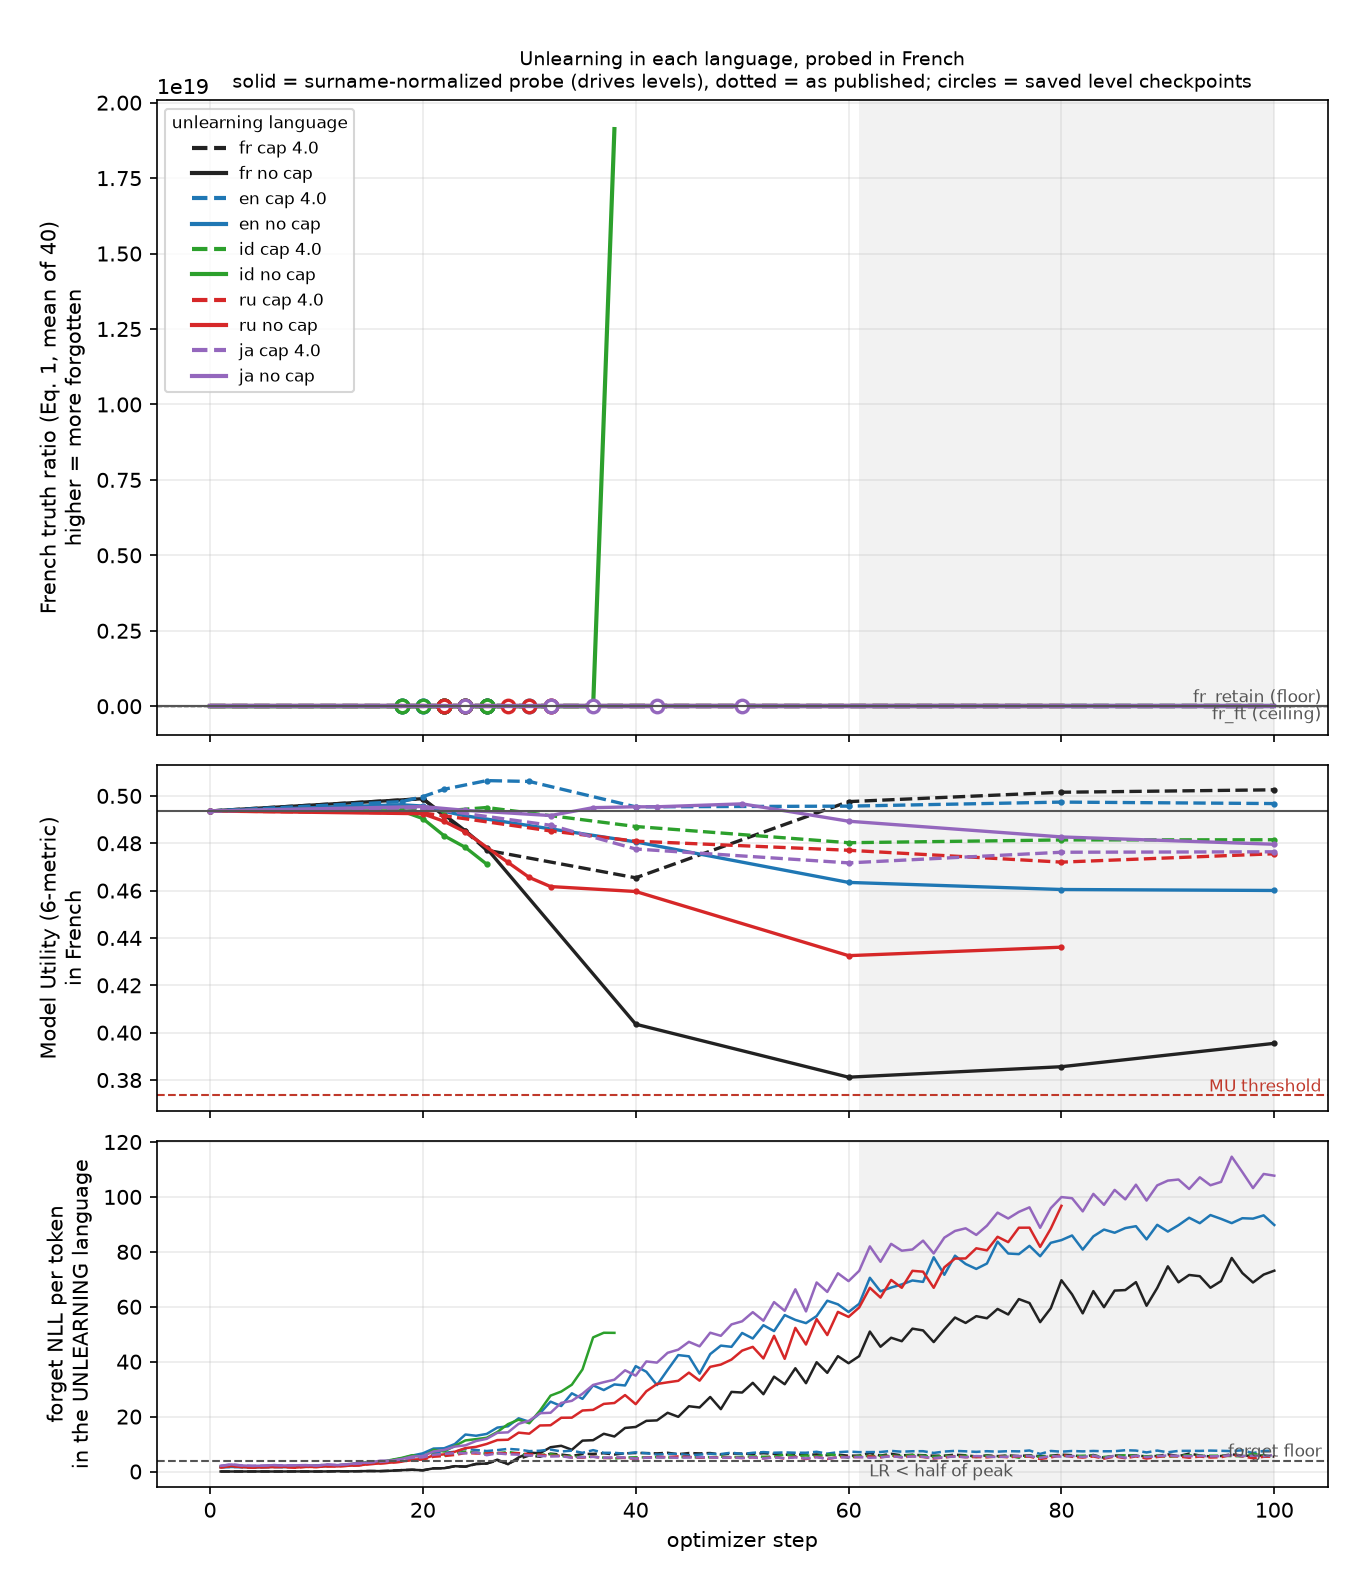
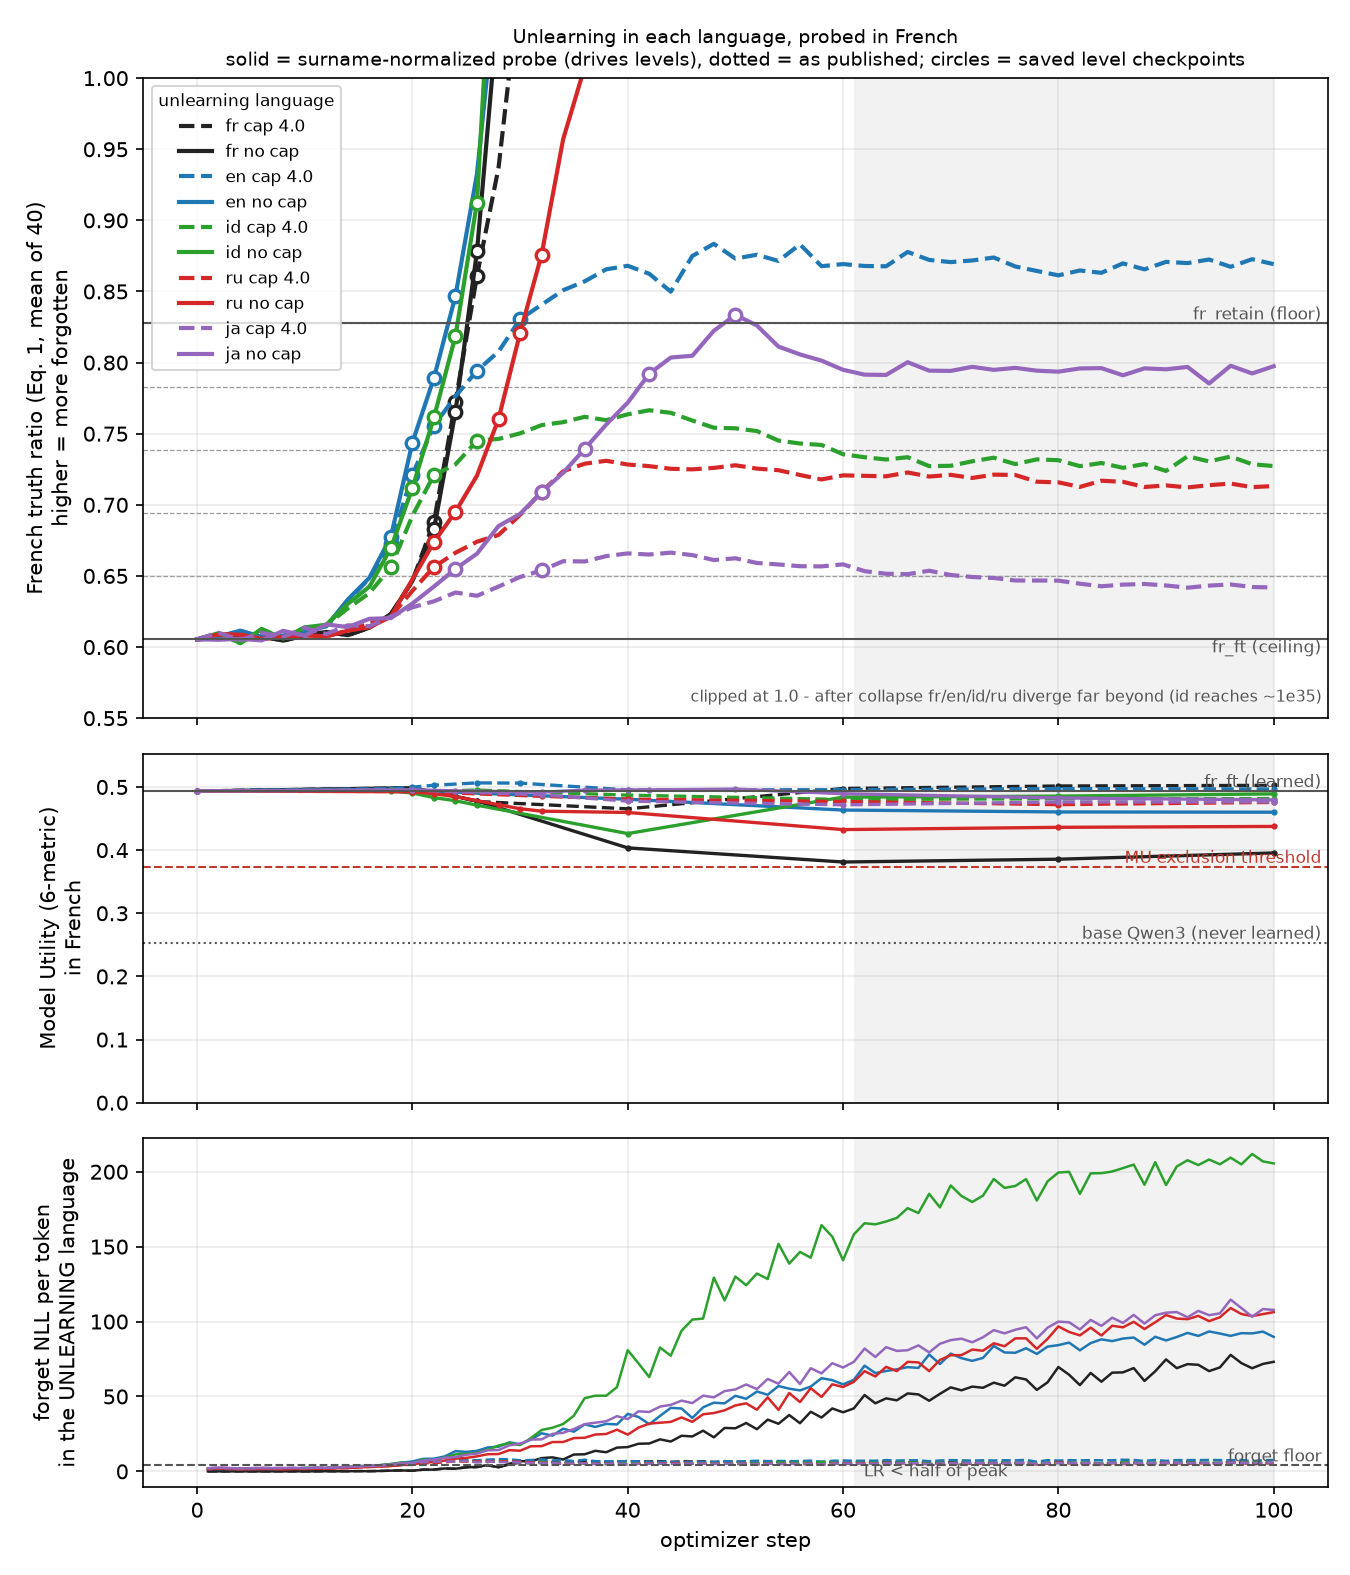
add unlearning graphs

diff --git a/studies/learn_french/plots/plot_stage2_metrics.py b/studies/learn_french/plots/plot_stage2_metrics.py
@@ -7,13 +7,18 @@
 The trajectory figures show WHEN each language reaches a depth. This one shows WHAT the
 model is like once it gets there, from results/stage2_<variant>_<lang>/ (the 04 job).
 
-x is the checkpoint's own measured truth ratio -- not the level it was labelled with,
-since a fast climb overshoots its label -- so every language is plotted on the depth it
-actually reached.
+--x step  (default)  the three metrics against optimizer step: the ordinary unlearning
+                     curve. Truth ratio is dense (probed every 2 steps); P(gold) and NLI
+                     exist only at the five saved checkpoints, because generating 40
+                     French answers every other step would have cost more than training.
+--x tr               the same metrics against the checkpoint's OWN truth ratio, which
+                     lines the languages up at matched depth rather than matched time.
+                     That view answers "at the same depth, are these the same model?" --
+                     and shows they are not.
 
-  A  NLI: can it still say the fact out loud?
+  A  truth ratio: how forgotten does the French probe say it is?
   B  P(gold): does it still assign probability to the trained answer?
-  C  Model Utility: is the model otherwise intact?
+  C  NLI: can it still say the fact out loud?
 
 A AND B TOGETHER ARE THE PRE-REGISTERED SECONDARY HYPOTHESIS (plan sec 5, "TR - NLI
 gap"): if a language's NLI collapses while its probability holds, unlearning in it
@@ -42,6 +47,24 @@ def stage1():
     return out
 
 
+def saved_steps(lang, variant):
+    """{level: step} -- when each checkpoint was written, read from the trajectory."""
+    suffix = "_floornone" if variant == "nocap" else ""
+    f = RESULTS / "unlearn_traj" / (
+        f"tofu_unlearn_gradient_difference_forget01_fullft_qwen3-8b_ul{lang}{suffix}.jsonl")
+    out = {}
+    if not f.exists():
+        return out
+    for line in open(f):
+        try:
+            r = json.loads(line)
+        except json.JSONDecodeError:
+            continue
+        for lv in (r.get("levels_saved_now") or {}):
+            out.setdefault(lv, r["step"])
+    return out
+
+
 def load(variant):
     """{lang: [rows sorted by depth]} from the per-language after-metrics directories."""
     runs = {}
@@ -56,6 +79,7 @@ def load(variant):
                 continue
             s = r["summary"]
             rows.append({"level": r["name"].split("_tr")[-1].replace("p", "."),
+                         "step": None,
                          "tr": s["tr_arithmetic_mean_norm"], "nli": s["nli_score_mean"],
                          "prob": s["prob_mean"], "mu": s.get("model_utility_6"),
                          "fq": (r.get("forget_quality_vs_reference_norm") or {}).get(
@@ -63,6 +87,9 @@ def load(variant):
                          "fr_share": (s.get("gen_language_counts") or {}).get("fr", 0) /
                                      max(sum((s.get("gen_language_counts") or {}).values()), 1)})
         if rows:
+            steps = saved_steps(lang, variant)
+            for r_ in rows:
+                r_["step"] = steps.get(r_["level"])
             runs[lang] = sorted(rows, key=lambda x: x["tr"])
     if not runs:
         sys.exit(f"no stage2_{variant}_* results yet -- run 04_measure_unlearned.sbatch")
@@ -72,45 +99,107 @@ def load(variant):
 def main():
     ap = argparse.ArgumentParser()
     ap.add_argument("--variant", default="nocap", choices=["nocap", "cap"])
+    ap.add_argument("--x", default="step", choices=["step", "tr"],
+                    help="x axis: optimizer step (the usual curve) or the checkpoint's "
+                         "own truth ratio (matched depth)")
     args = ap.parse_args()
     import matplotlib
     matplotlib.use("Agg")
     import matplotlib.pyplot as plt
 
     runs, s1 = load(args.variant), stage1()
-    fig, axes = plt.subplots(1, 3, figsize=(13.5, 4.8))
-    panels = [("nli", "NLI equivalence\n(can it still state the fact?)", "A"),
-              ("prob", "P(gold answer)\n(is the trained string still likely?)", "B"),
-              ("mu", "Model Utility (6-metric)\n(is the model otherwise intact?)", "C")]
+    panels = [("prob", "P(gold answer)\n(is the trained answer still likely?)"),
+              ("nli", "NLI equivalence\n(can it still state the fact?)"),
+              ("mu", "Model Utility (6-metric)\n(is the model otherwise intact?)")]
+    # The truth ratio is the x axis under --x tr, so a truth-ratio panel would just be the
+    # identity line. It is only a panel when x is the step.
+    if args.x == "step":
+        panels.insert(0, ("tr", "truth ratio\n(higher = the probe says it is forgotten)"))
+    panels = [(k, t, chr(65 + i)) for i, (k, t) in enumerate(panels)]
+    fig, axes = plt.subplots(1, len(panels), figsize=(4.4 * len(panels) + 0.7, 4.8))
     ref = {"nli": ("nli_score_mean", "NLI"), "prob": ("prob_mean", "P(gold)"),
-           "mu": ("model_utility_6", "MU")}
+           "mu": ("model_utility_6", "MU"), "tr": ("tr_arithmetic_mean_norm", "TR")}
+    dense = {}
+    if args.x == "step":       # the truth ratio was probed every 2 steps; use all of it
+        for lang in runs:
+            suffix = "_floornone" if args.variant == "nocap" else ""
+            f = RESULTS / "unlearn_traj" / (
+                f"tofu_unlearn_gradient_difference_forget01_fullft_qwen3-8b_ul{lang}{suffix}.jsonl")
+            pts = []
+            for line in open(f):
+                try:
+                    r_ = json.loads(line)
+                except json.JSONDecodeError:
+                    continue
+                pts.append((r_["step"], r_["mean_tr"]))
+            dense[lang] = pts
     for ax, (key, title, tag) in zip(axes, panels):
         for lang, rows in runs.items():
-            xs = [r["tr"] for r in rows]
-            ys = [r[key] for r in rows]
-            ax.plot(xs, ys, color=C[lang], lw=1.8, marker="o", ms=5, label=lang)
-        for role, style in (("fr_ft", "-"), ("fr_retain", "--")):
+            pts = [(r["step"] if args.x == "step" else r["tr"], r[key]) for r in rows
+                   if r[key] is not None and (args.x == "tr" or r["step"] is not None)]
+            pts.sort()
+            if key == "tr" and args.x == "step" and lang in dense:
+                d = [(s_, v) for s_, v in dense[lang] if v <= 1.0]   # clip the divergence
+                ax.plot([p[0] for p in d], [p[1] for p in d], color=C[lang], lw=1.8, label=lang)
+                ax.plot([p[0] for p in pts], [p[1] for p in pts], "o", color=C[lang], ms=5)
+            else:
+                ax.plot([p[0] for p in pts], [p[1] for p in pts], color=C[lang], lw=1.8,
+                        marker="o", ms=5, label=lang if key != "tr" else None)
+        # fr_ft 0.494 and fr_retain 0.504 nearly coincide on the utility panel; stack the
+        # labels on opposite sides of their lines so they do not overprint.
+        for role, style, va in (("fr_ft", "-", "top"), ("fr_retain", "--", "bottom")):
             v = s1.get(role, {}).get(ref[key][0])
             if v is not None:
                 ax.axhline(v, color="#555555", lw=1, ls=style)
                 ax.text(0.99, v, f" {role} ", transform=ax.get_yaxis_transform(),
+                        ha="right", va=va, fontsize=7.5, color="#555555")
+        if key == "mu":
+            # SCALE. Auto-scaled, this panel spans ~0.04 and renders a series that never
+            # moves as a cliff. MU is a harmonic mean of quantities in [0, 1]; what makes
+            # a drop meaningful is the distance to a model that never learned the facts,
+            # so anchor the axis on base Qwen3 and the learned model rather than on the
+            # data's own range. The claim is "no language paid a utility price", and the
+            # axis has to be able to show that.
+            b = s1.get("base", {}).get("model_utility_6")
+            if b is not None:
+                ax.axhline(b, color="#555555", lw=1, ls=":")
+                ax.text(0.99, b, " base Qwen3 ", transform=ax.get_yaxis_transform(),
                         ha="right", va="bottom", fontsize=7.5, color="#555555")
-        ax.set_xlabel("truth ratio the checkpoint actually reached\n(higher = more forgotten)")
+            tops = [v for v in (b, s1.get("fr_ft", {}).get("model_utility_6"),
+                                s1.get("fr_retain", {}).get("model_utility_6"))
+                    if v is not None]
+            ax.set_ylim(0.0, (max(tops) if tops else 0.55) * 1.12)
+        ax.set_xlabel("optimizer step" if args.x == "step" else
+                      "truth ratio the checkpoint reached\n(matched depth)")
         ax.set_title(f"{tag}. {title}", fontsize=10, loc="left", color=INK)
         ax.spines[["top", "right"]].set_visible(False)
         ax.spines[["left", "bottom"]].set_color(GRID)
         ax.tick_params(colors=MUTED, labelsize=8)
         ax.grid(color=GRID, alpha=0.4, lw=0.7)
         ax.set_axisbelow(True)
-    axes[0].legend(title="unlearning language", fontsize=8, title_fontsize=8, frameon=False)
+    # Panel A carries labels only in the --x step path (there the dense curve is drawn
+    # separately); panel B always does, so source the legend there and place it on A.
+    # A legend inside panel A lands on the data in both views (the curves run corner to
+    # corner). Put it in the header band instead, as one row, where it blocks nothing.
+    h, l = next((hl for hl in (a.get_legend_handles_labels() for a in axes) if hl[1]),
+                ([], []))
+    fig.legend(h, l, title="unlearning language", fontsize=8, title_fontsize=8,
+               frameon=False, loc="upper left", bbox_to_anchor=(0.55, 1.005),
+               ncol=len(l) or 1, columnspacing=1.4, handlelength=1.6)
+    if args.x == "step":
+        axes[0].text(0.98, 0.96, "clipped at 1.0 - fr/en/id/ru diverge far beyond it",
+                     transform=axes[0].transAxes, ha="right", va="top", fontsize=7.5,
+                     color=MUTED)   # bottom-right collides with the fr_ft line label
     fig.suptitle("Stage 2: what the level checkpoints are actually like, probed in French",
                  fontsize=13, x=0.045, ha="left", y=0.97, color=INK)
-    fig.text(0.045, 0.90, "each point is one saved checkpoint - five depths per language - "
-             f"{'no forget cap' if args.variant == 'nocap' else 'forget cap 4.0'}",
+    fig.text(0.045, 0.90, ("truth ratio probed every 2 steps; P(gold), NLI and MU only at "
+             "the saved checkpoints (circles) - " if args.x == "step" else
+             "one point per saved checkpoint, placed at the truth ratio it reached - ")
+             + f"{'no forget cap' if args.variant == 'nocap' else 'forget cap 4.0'}",
              fontsize=8.5, color=MUTED)
     fig.tight_layout(rect=[0, 0, 1, 0.88])
     FIGS.mkdir(exist_ok=True)
-    out = FIGS / f"stage2_metrics_{args.variant}.png"
+    out = FIGS / f"stage2_metrics_{args.variant}_by{args.x}.png"
     fig.savefig(out, dpi=170, facecolor=SURFACE)
     print(f"-> {out}\n")
     print(f"{'lang':>5}{'level':>8}{'TR':>8}{'NLI':>8}{'P(gold)':>9}{'MU':>8}{'FQ log10':>10}{'French':>8}")

diff --git a/studies/learn_french/plots/plot_unlearn_traj.py b/studies/learn_french/plots/plot_unlearn_traj.py
@@ -126,6 +126,7 @@ def main():
     ceil = s1.get("fr_ft", {}).get("tr_arithmetic_mean_norm")
     floor = s1.get("fr_retain", {}).get("tr_arithmetic_mean_norm")
     mu_ft = s1.get("fr_ft", {}).get("model_utility_6")
+    mu_base = s1.get("base", {}).get("model_utility_6")
     if not prereg:
         print("NOTE: no preregistration.json -- levels and MU threshold not shown")
 
@@ -200,10 +201,10 @@ def main():
         print("Matched depth = deepest level admissible in EVERY language; verify it on the"
               "\ndistributions (pairwise KS of tr_per_fact), not the means (plan sec 4b).")
 
-    plot(runs, levels, ceil, floor, mu_thr, mu_ft)
+    plot(runs, levels, ceil, floor, mu_thr, mu_ft, mu_base)
 
 
-def plot(runs, levels, ceil, floor, mu_thr, mu_ft):
+def plot(runs, levels, ceil, floor, mu_thr, mu_ft, mu_base=None):
     import matplotlib
     matplotlib.use("Agg")
     import matplotlib.pyplot as plt
@@ -238,6 +239,14 @@ def plot(runs, levels, ceil, floor, mu_thr, mu_ft):
         a1.axhline(floor, color="#555555", lw=1)
         a1.text(0.995, floor, " fr_retain (floor)", transform=a1.get_yaxis_transform(),
                 ha="right", va="bottom", fontsize=8, color="#555555")
+    # SCALE. Without a cap, Indonesian's post-collapse excursion (TR ~1e35 at step 66)
+    # sets the axis and every curve of interest renders as a flat line on zero. The band
+    # that carries the experiment is ceiling..floor plus a little, so clip to it and say
+    # so -- the divergence is reported in the text summary above, not drawn.
+    a1.set_ylim(0.55, 1.0)
+    a1.text(0.995, 0.02, "clipped at 1.0 - after collapse fr/en/id/ru diverge far beyond "
+            "(id reaches ~1e35)", transform=a1.transAxes, ha="right", va="bottom",
+            fontsize=7.5, color="#555555")
     a1.set_ylabel("French truth ratio (Eq. 1, mean of 40)\nhigher = more forgotten")
     a1.set_title("Unlearning in each language, probed in French\n"
                  "solid = surname-normalized probe (drives levels), dotted = as published; "
@@ -246,10 +255,25 @@ def plot(runs, levels, ceil, floor, mu_thr, mu_ft):
 
     if mu_thr is not None:
         a2.axhline(mu_thr, color="#c0392b", lw=1, ls="--")
-        a2.text(0.995, mu_thr, " MU threshold", transform=a2.get_yaxis_transform(),
+        a2.text(0.995, mu_thr, " MU exclusion threshold", transform=a2.get_yaxis_transform(),
                 ha="right", va="bottom", fontsize=8, color="#c0392b")
     if mu_ft is not None:
         a2.axhline(mu_ft, color="#555555", lw=1)
+        a2.text(0.995, mu_ft, " fr_ft (learned)", transform=a2.get_yaxis_transform(),
+                ha="right", va="bottom", fontsize=8, color="#555555")
+    # SCALE. Auto-scaling this panel spans ~0.03 and renders a flat series as dramatic
+    # swings. MU is a harmonic mean of quantities in [0, 1]; the meaningful band is
+    # anchored by base Qwen3 (never learned the facts) below and the learned model above,
+    # so fix the axis to that band plus headroom. The message is "nothing moved", and the
+    # axis has to be able to say it.
+    lo = 0.0
+    hi = max([v for v in (mu_ft, mu_base) if v is not None] or [0.55]) * 1.12
+    if mu_base is not None:
+        a2.axhline(mu_base, color="#555555", lw=1, ls=":")
+        a2.text(0.995, mu_base, " base Qwen3 (never learned)",
+                transform=a2.get_yaxis_transform(), ha="right", va="bottom",
+                fontsize=8, color="#555555")
+    a2.set_ylim(lo, hi)
     a2.set_ylabel("Model Utility (6-metric)\nin French")
 
     a3.axhline(FLOOR, color="#555555", lw=1, ls="--")
